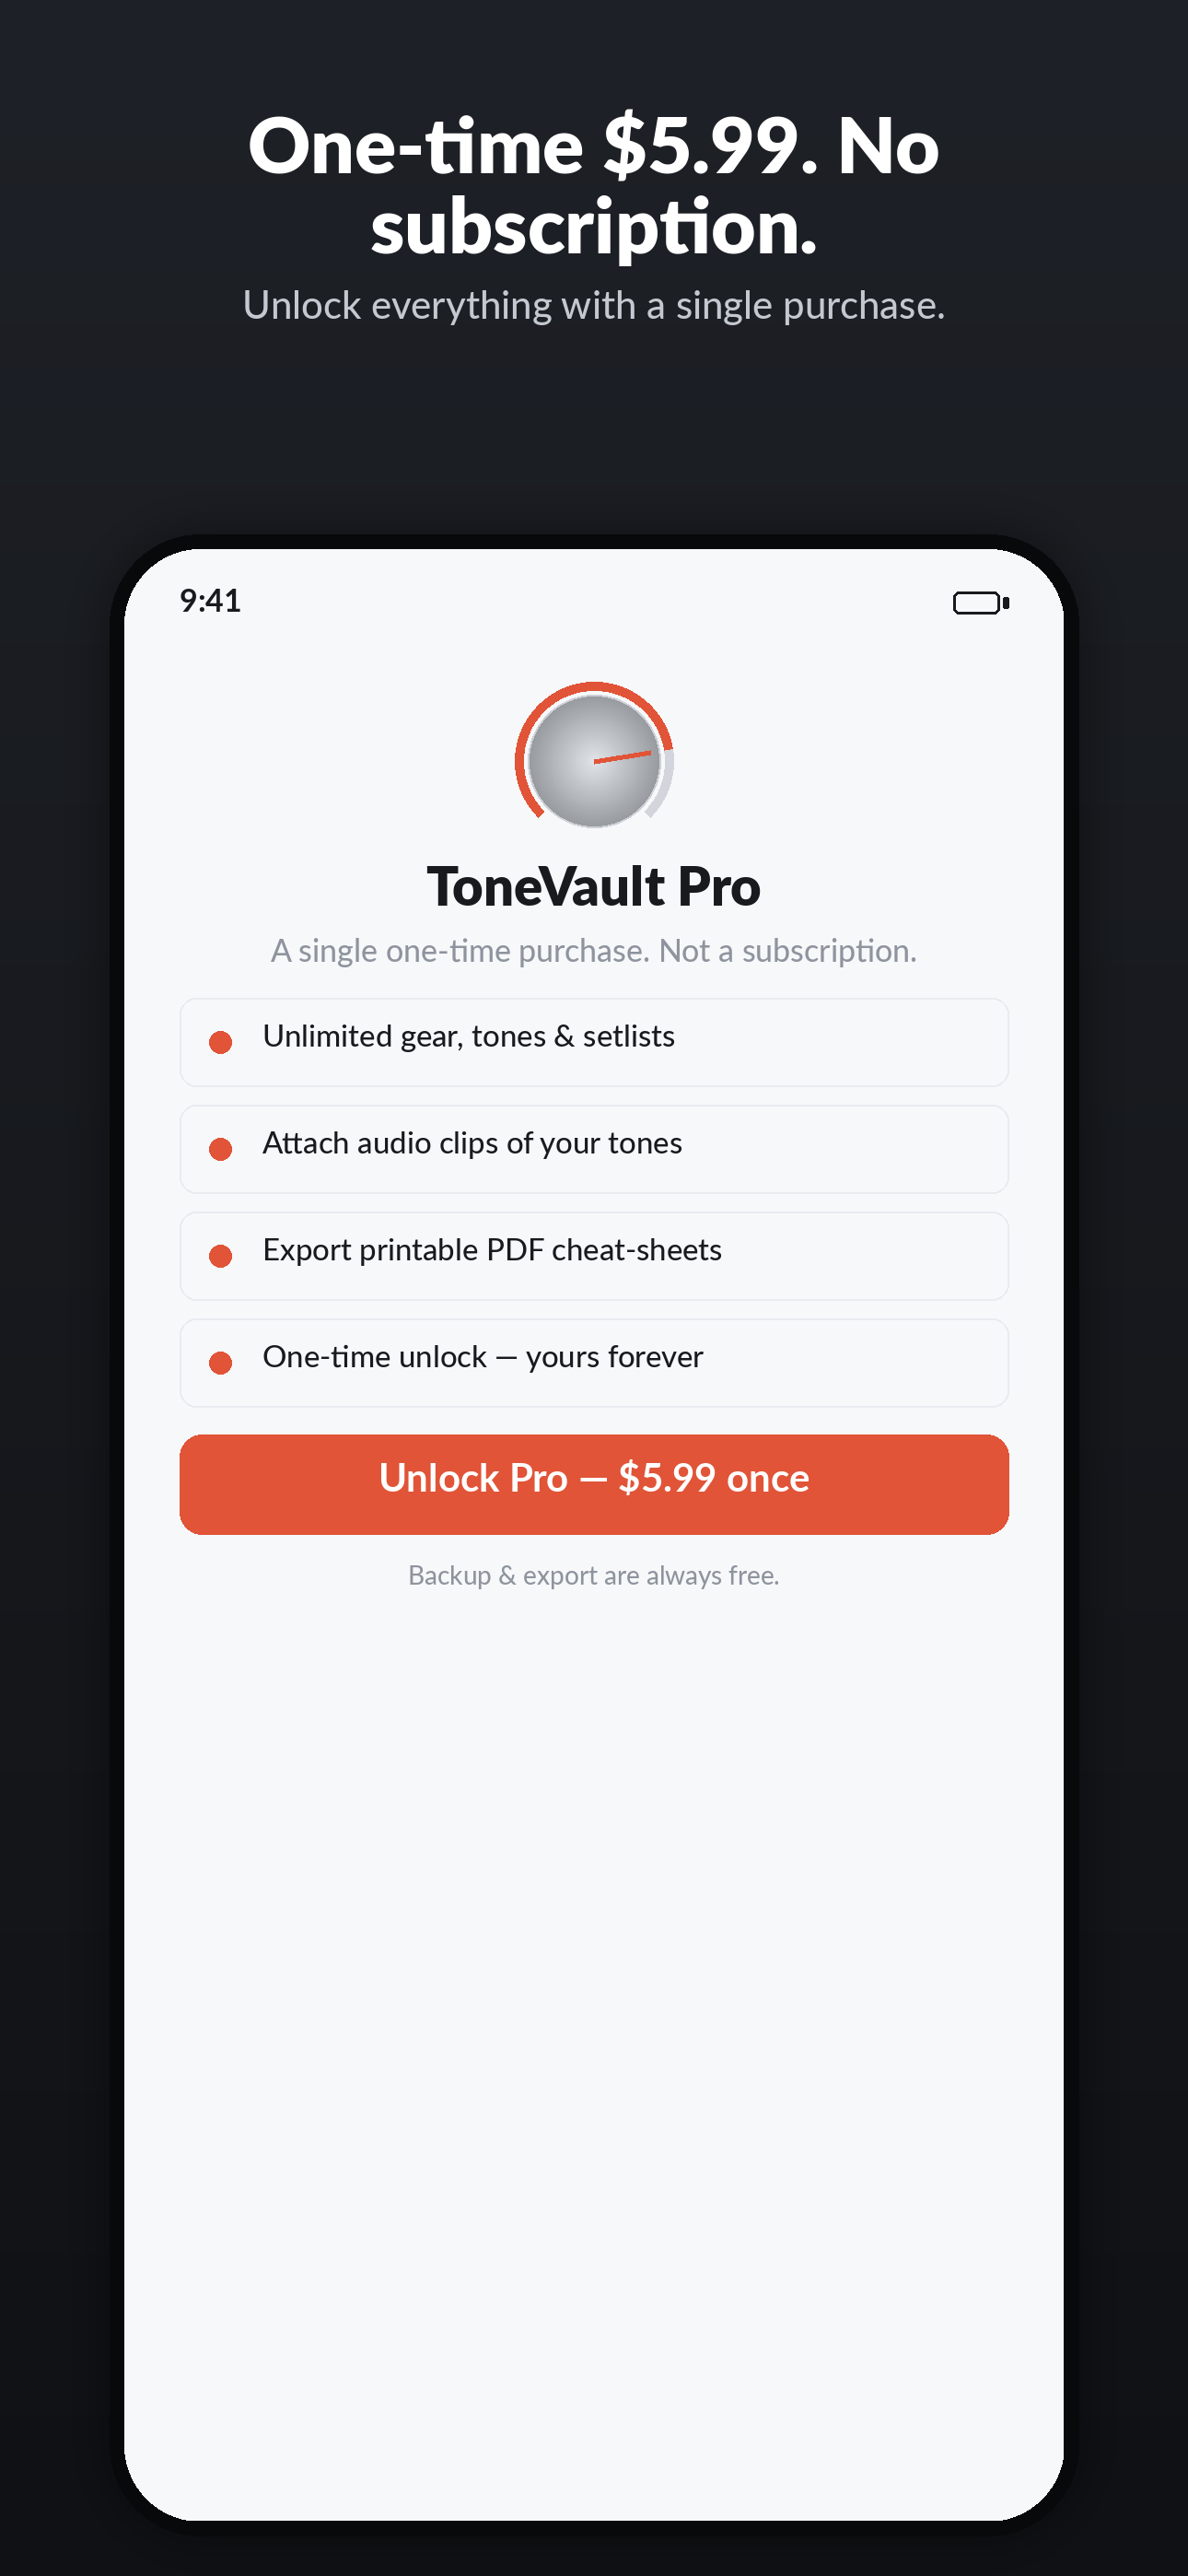
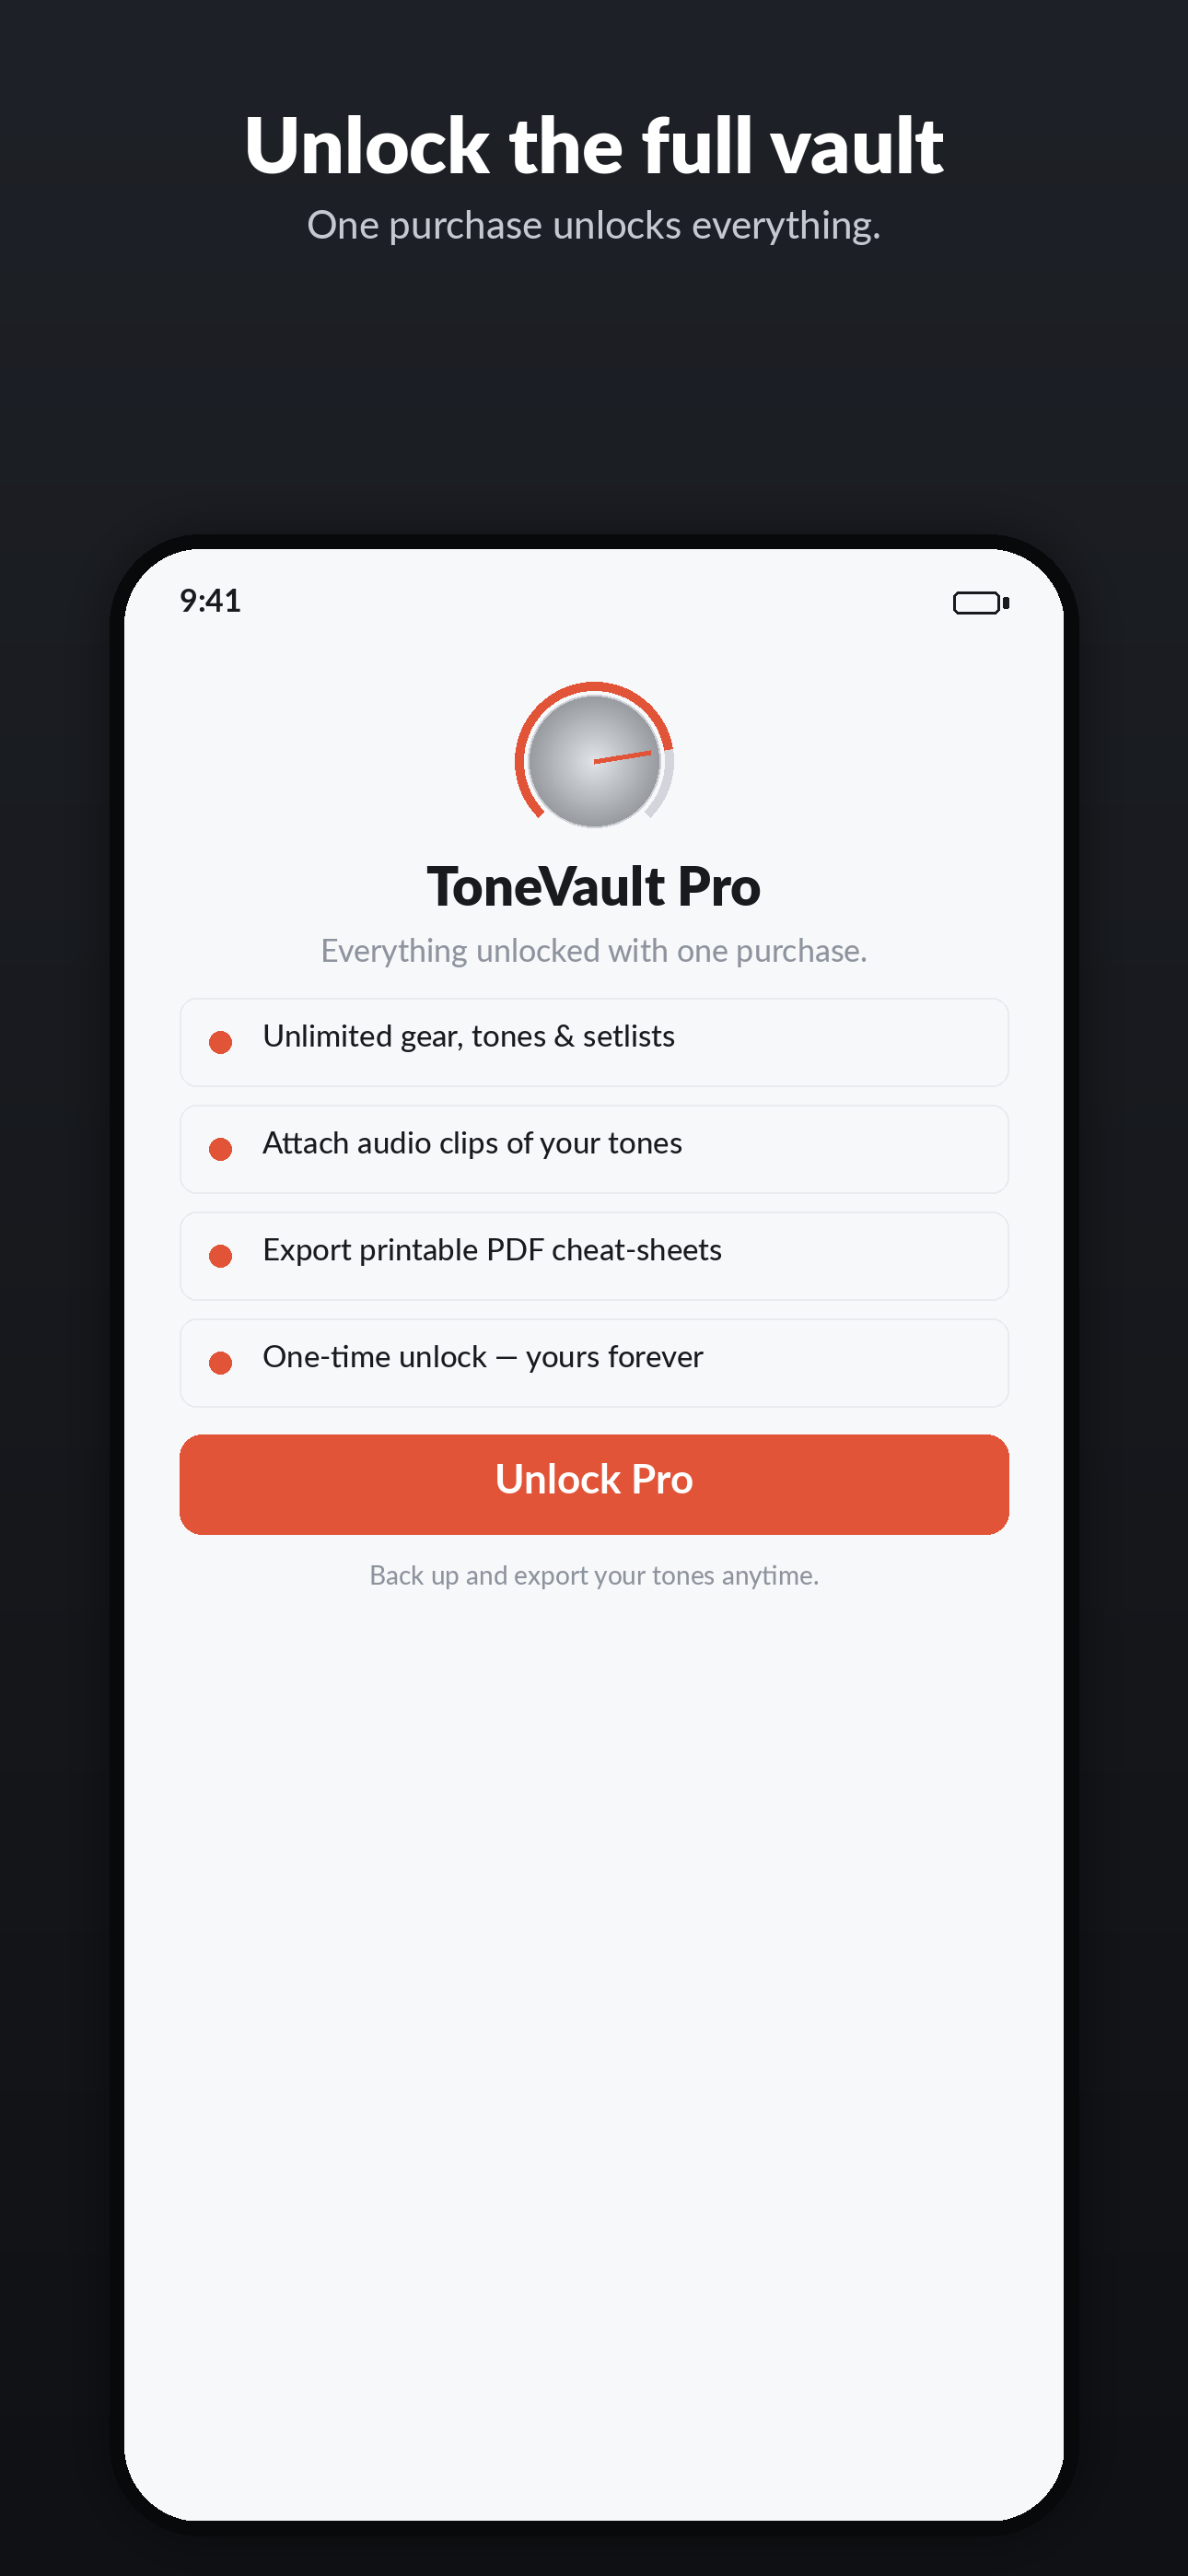
Sync latest ToneVault source: real bundle ID, iPad + 6.5in screenshots, updated storekit config

diff --git a/ToneVault/Views/Controls/SelectorControlView.swift b/ToneVault/Views/Controls/SelectorControlView.swift
@@ -28,8 +28,10 @@ struct SelectorControlView: View {
                 // Center pointer
                 Path { path in
                     let rad = Angle(degrees: angle(for: current) - 90).radians
+                    let dx = CGFloat(cos(rad)) * 26
+                    let dy = CGFloat(sin(rad)) * 26
                     path.move(to: CGPoint(x: 42, y: 42))
-                    path.addLine(to: CGPoint(x: 42 + cos(rad) * 26, y: 42 + sin(rad) * 26))
+                    path.addLine(to: CGPoint(x: 42 + dx, y: 42 + dy))
                 }
                 .stroke(Color.tvAccent, style: StrokeStyle(lineWidth: 3, lineCap: .round))
                 .frame(width: 84, height: 84)
@@ -83,6 +85,6 @@ struct SelectorControlView: View {
 
     private func dotOffset(_ deg: Double, radius: CGFloat) -> CGSize {
         let rad = Angle(degrees: deg - 90).radians
-        return CGSize(width: cos(rad) * radius, height: sin(rad) * radius)
+        return CGSize(width: CGFloat(cos(rad)) * radius, height: CGFloat(sin(rad)) * radius)
     }
 }

diff --git a/ToneVault/Store/EntitlementManager.swift b/ToneVault/Store/EntitlementManager.swift
@@ -9,7 +9,7 @@ import SwiftUI
 @MainActor
 final class EntitlementManager: ObservableObject {
 
-    static let productID = "com.yourorg.tonevault.pro"
+    static let productID = "com.tobyberger.tonevault.pro"
 
     /// Free-tier limits (backup/export is always free — never gated).
     static let freeGearLimit = 5

diff --git a/Marketing/make_screenshots.py b/Marketing/make_screenshots.py
@@ -323,7 +323,7 @@ def screen_paywall():
     status_bar(d)
     draw_knob(s, PHONE_W//2, 230, 72, 0.8, d=d)
     text_center(d, PHONE_W//2, 340, "ToneVault Pro", F_HEAD(58), INK)
-    y = wrap_center(d, PHONE_W//2, 420, "A single one-time purchase. Not a subscription.",
+    y = wrap_center(d, PHONE_W//2, 420, "Everything unlocked with one purchase.",
                     F_MED(34), SUBTLE, PHONE_W-160)
     y += 24
     for txt in ["Unlimited gear, tones & setlists",
@@ -336,9 +336,9 @@ def screen_paywall():
         y += 116
     y += 10
     rounded(d, [60, y, PHONE_W-60, y+108], 24, ACCENT)
-    text_center(d, PHONE_W//2, y+28, "Unlock Pro — $5.99 once", F_BOLD(42), (255,255,255))
+    text_center(d, PHONE_W//2, y+28, "Unlock Pro", F_BOLD(44), (255,255,255))
     y += 140
-    text_center(d, PHONE_W//2, y, "Backup & export are always free.", F_MED(28), SUBTLE)
+    text_center(d, PHONE_W//2, y, "Back up and export your tones anytime.", F_MED(28), SUBTLE)
     return s
 
 SHOTS = [
@@ -352,8 +352,8 @@ SHOTS = [
      "Big, high-contrast settings you can read mid-set.", screen_stage),
     ("05_data.png", "No account. No cloud.",
      "100% offline. Back up and own your data forever.", screen_data),
-    ("06_pro.png", "One-time $5.99. No subscription.",
-     "Unlock everything with a single purchase.", screen_paywall),
+    ("06_pro.png", "Unlock the full vault",
+     "One purchase unlocks everything.", screen_paywall),
 ]
 
 for fname, head, sub, fn in SHOTS:

diff --git a/docs/SUBMISSION.md b/docs/SUBMISSION.md
@@ -27,7 +27,7 @@ Re-run `xcodegen generate` any time you add/rename source files. (The generated 
 Two values are placeholders and must be set to yours:
 
 1. In `project.yml` → `settings.base.DEVELOPMENT_TEAM`: paste your 10-character **Team ID** (Apple Developer → Membership).
-2. Bundle identifier is `com.yourorg.tonevault`. To change it, edit `PRODUCT_BUNDLE_IDENTIFIER` in `project.yml` **and** the product IDs below, then re-run `xcodegen generate`.
+2. Bundle identifier is `com.tobyberger.tonevault`. To change it, edit `PRODUCT_BUNDLE_IDENTIFIER` in `project.yml` **and** the product IDs below, then re-run `xcodegen generate`.
 
 Then in Xcode: select the **ToneVault** target → Signing & Capabilities → check **Automatically manage signing** → pick your team. Do the same for the **ToneVaultTests** target.
 
@@ -40,7 +40,7 @@ The app sells exactly one product:
 | Field | Value |
 |---|---|
 | Reference name | `ToneVault Pro` |
-| Product ID | `com.yourorg.tonevault.pro` |
+| Product ID | `com.tobyberger.tonevault.pro` |
 | Type | **Non-Consumable** |
 | Price | **$5.99** (Tier 6 / equivalent) |
 